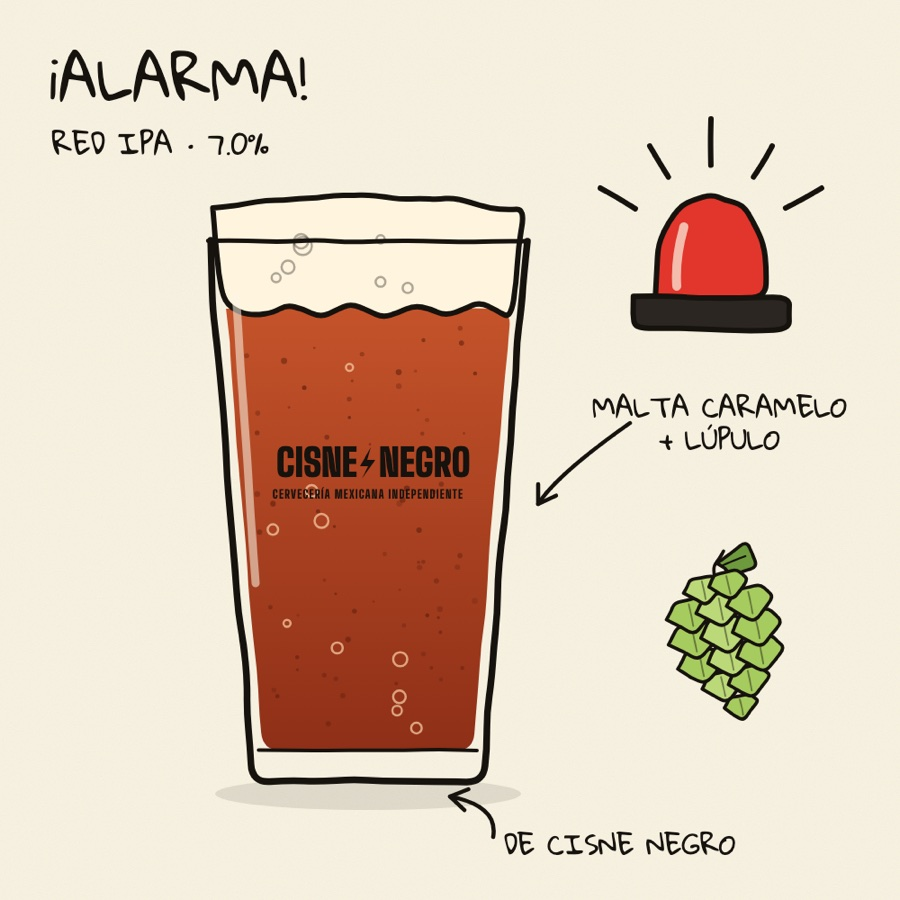
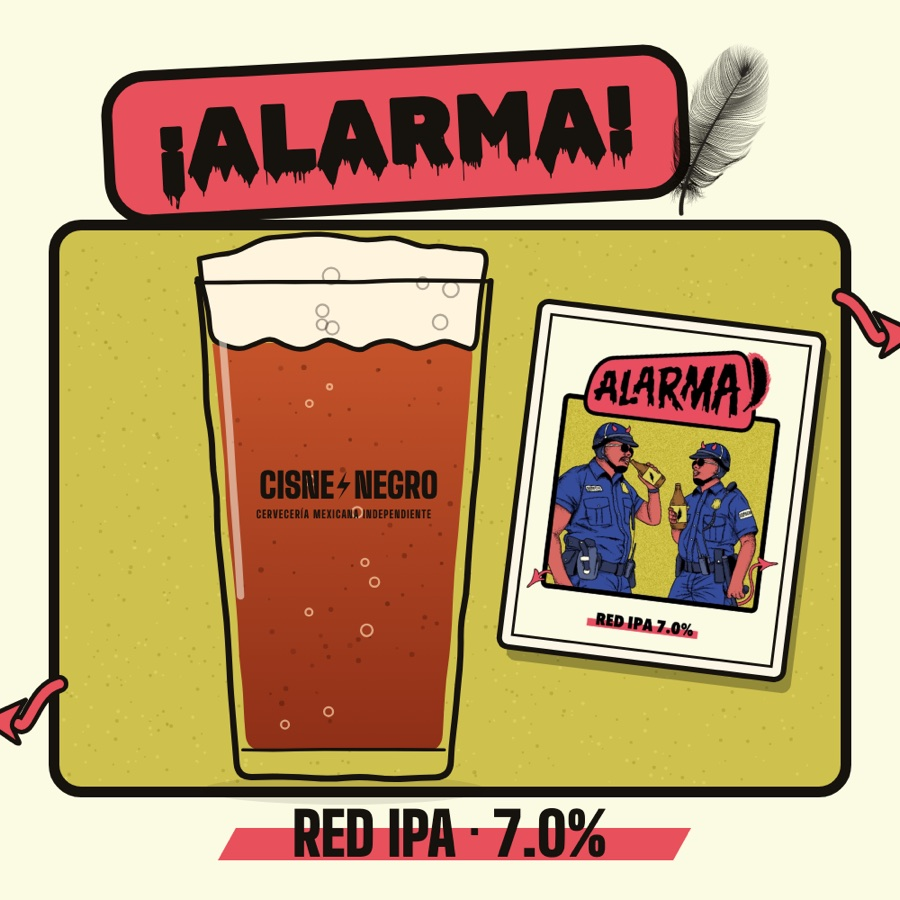
feat(cisne-negro): diseño especializado por etiqueta para ¡Alarma!, ¿A poco sí pa'? y Barrilete Cósmico
Cada cerveza con arte oficial tiene ahora una imagen con el lenguaje de su etiqueta,
con el vaso de Cisne Negro al centro y la etiqueta real como calcomanía:
- ¡Alarma!: panel mostaza moteado, banda rosa con letras escurridas, colas de diablo y pluma
- ¿A poco sí pa'?: letras retro de franjas, rayos de santo y llamas del póster, fondo con resplandor rojo
- Barrilete Cósmico: remolino turquesa, constelación, papalotes y salpicadura de espuma
"Ver etiqueta" pasa a la fila superior de la ficha para no tapar el diseño.
Henry IX con notas neutrales mientras se confirma si es IPA o Munich Helles.

diff --git a/cisne-negro-cerveceria/sitio/experiencia/index.html b/cisne-negro-cerveceria/sitio/experiencia/index.html
@@ -40,25 +40,19 @@
       <div class="door-note depth-4" data-depth="4"><span>Barril y comedor</span><span>Cerveza hecha aquí. Sin pretensiones.</span></div>
       <p class="scene-index" aria-hidden="true">01 / LA CASA</p>
     </section>
-    <!-- Illustrated spatial set: no manufactured photography or product cutouts. -->
-    <section class="scene bar" id="barra" tabindex="-1" aria-labelledby="bar-title">
-      <div class="bar-wall depth-0" data-depth="0" aria-hidden="true"></div>
-      <div class="light-cone depth-1" data-depth="1" aria-hidden="true"></div>
+    <!-- Original beer illustrations, presented as artwork, never simulated product photography. -->
+    <section class="scene bar" id="barra" data-beer="alarma" tabindex="-1" aria-labelledby="bar-title">
       <div class="bar-heading depth-4" data-depth="4">
         <p class="eyebrow">02 / Del otro lado de la puerta</p>
         <h2 id="bar-title">TU LUGAR<br>EN LA <span>BARRA.</span></h2>
         <p>Dos cervezas, dos maneras de empezar la plática.</p>
       </div>
       <figure class="bar-art" aria-labelledby="art-caption">
-        <div class="back-sign depth-2" data-depth="2" aria-hidden="true">CISNE NEGRO<small>BEBE LOCAL</small></div>
-        <div class="tap-pipes depth-2" data-depth="2" aria-hidden="true"><i></i><i></i></div>
-        <div class="counter depth-2" data-depth="2" aria-hidden="true"></div>
-        <div class="glasses depth-3" data-depth="3" data-parallax="-0.025" aria-hidden="true">
-          <div class="glass-wrap" data-glass="0"><div class="glass glass-amber"><div class="foam"></div><span class="glass-mark">CN<small>HECHA AQUÍ</small></span></div><div class="coaster"></div></div>
-          <div class="glass-wrap" data-glass="1"><div class="glass glass-dark"><div class="foam"></div><span class="glass-mark">CN<small>HECHA AQUÍ</small></span></div><div class="coaster"></div></div>
+        <div class="art-frame" id="beer-art">
+          <img data-art="alarma" src="../assets/img/cervezas/alarma.jpg" width="900" height="900" decoding="async" alt="¡Alarma!: ilustración de cerveza ámbar junto a su etiqueta de cómic, en crema, mostaza y coral">
+          <img data-art="agua-puerca" src="../assets/img/cervezas/agua-puerca.jpg" width="900" height="900" decoding="async" alt="Agua Puerca: ilustración de stout oscura con espuma caramelo, chocolate y café dibujados sobre papel crema" hidden>
         </div>
-        <img class="mascot depth-3" data-depth="3" src="../assets/img/marca/cisne-mascota.jpg" width="1080" height="1080" loading="lazy" decoding="async" alt="Mascota del Cisne con su tarro de cerveza, en un sello blanco">
-        <figcaption id="art-caption">Composición ilustrativa · Los vasos no son fotografías del producto.</figcaption>
+        <figcaption id="art-caption">¡Alarma! · Ilustración de la cerveza y su etiqueta.</figcaption>
       </figure>
       <div class="beer-console depth-4" data-depth="4">
         <div id="beer-data" aria-busy="false">

diff --git a/cisne-negro-cerveceria/sitio/assets/js/menu.js b/cisne-negro-cerveceria/sitio/assets/js/menu.js
@@ -118,12 +118,12 @@
       const oficial = b.marida_oficial || [];
       const card = h('article', { class: 'tap', id: 'barril-' + b.id, 'data-perfil': b.perfil, 'aria-labelledby': 'tn-' + b.id },
         b.img && h('figure', { class: 'tap__fig' },
-          h('img', { class: 'tap__img', src: '/assets/img/cervezas/' + b.img, alt: 'Ilustración de ' + b.nombre + ' (' + b.estilo + ') servida en el vaso de Cisne Negro', width: 900, height: 900, loading: i < 2 ? 'eager' : 'lazy', decoding: 'async' }),
-          b.etiqueta && h('button', { type: 'button', class: 'tap__etq', 'data-etiqueta': b.etiqueta, 'data-nombre': b.nombre },
-            h('img', { src: '/assets/img/cervezas/' + b.etiqueta, alt: '', width: 44, height: 44, loading: 'lazy', decoding: 'async' }),
-            h('span', { text: 'Ver etiqueta' }))),
+          h('img', { class: 'tap__img', src: '/assets/img/cervezas/' + b.img, alt: (b.etiqueta ? 'Diseño de ' + b.nombre + ' inspirado en su etiqueta' : 'Ilustración de ' + b.nombre) + ' (' + b.estilo + '), servida en el vaso de Cisne Negro', width: 900, height: 900, loading: i < 2 ? 'eager' : 'lazy', decoding: 'async' })),
         h('div', { class: 'tap__top' },
           h('span', { class: 'tap__num', text: String(i + 1).padStart(2, '0') }),
+          b.etiqueta && h('button', { type: 'button', class: 'tap__etq', 'data-etiqueta': b.etiqueta, 'data-nombre': b.nombre },
+            h('img', { src: '/assets/img/cervezas/' + b.etiqueta, alt: '', width: 44, height: 44, loading: 'lazy', decoding: 'async' }),
+            h('span', { text: 'Ver etiqueta' })),
           b.perfil && h('span', { class: 'chip chip--' + b.perfil }, h('span', { class: 'dot dot--' + b.perfil }), PERFIL_LABEL[b.perfil] || b.perfil)),
         h('h3', { class: 'tap__name', id: 'tn-' + b.id, text: b.nombre }),
         h('p', { class: 'tap__meta', text: [b.estilo, abv(b.abv), b.ibu && b.ibu + ' IBU'].filter(Boolean).join(' · ') }),

diff --git a/cisne-negro-cerveceria/sitio/experiencia/experiencia.js b/cisne-negro-cerveceria/sitio/experiencia/experiencia.js
@@ -15,7 +15,7 @@
     return element;
   };
   const money = new Intl.NumberFormat('es-MX', {style:'currency', currency:'MXN', maximumFractionDigits:0});
-  function selectBeer(beer, index) {
+  function selectBeer(beer) {
     const content = document.createDocumentFragment();
     content.append(node('p', 'beer-meta', `${beer.estilo} · ${beer.abv.toFixed(1)}% ABV`));
     content.append(node('h3', 'beer-name', beer.nombre));
@@ -29,7 +29,9 @@
     });
     content.append(prices);
     detail.replaceChildren(content);
-    document.querySelectorAll('[data-glass]').forEach((glass, i) => glass.classList.toggle('is-selected', i === index));
+    document.querySelector('#barra').dataset.beer = beer.id;
+    document.querySelectorAll('[data-art]').forEach(art => { art.hidden = art.dataset.art !== beer.id; });
+    document.querySelector('#art-caption').textContent = `${beer.nombre} · Ilustración de la cerveza${beer.id === 'alarma' ? ' y su etiqueta' : ''}.`;
   }
   async function load() {
     dataBox.setAttribute('aria-busy', 'true');
@@ -50,14 +52,14 @@
         const input = document.createElement('input');
         input.type = 'radio'; input.name = 'cerveza'; input.value = beer.id;
         input.checked = index === 0;
-        input.setAttribute('aria-controls', 'beer-detail');
-        input.addEventListener('change', () => { if (input.checked) selectBeer(beer, index); });
+        input.setAttribute('aria-controls', 'beer-detail beer-art');
+        input.addEventListener('change', () => { if (input.checked) selectBeer(beer); });
         label.append(input, document.createTextNode(beer.nombre));
         fragment.append(label);
       });
       choices.replaceChildren(fragment);
       fieldset.hidden = false;
-      selectBeer(beers[0], 0);
+      selectBeer(beers[0]);
       status.hidden = true;
     } catch (_) {
       fieldset.hidden = true;

diff --git a/cisne-negro-cerveceria/sitio/assets/js/landing.js b/cisne-negro-cerveceria/sitio/assets/js/landing.js
@@ -47,21 +47,21 @@
       var fig = el('figure', 'tap__fig');
       var img = el('img', 'tap__img');
       img.src = '/assets/img/cervezas/' + beer.img;
-      img.alt = 'Ilustración de ' + beer.nombre + ' (' + beer.estilo + ') servida en el vaso de Cisne Negro';
+      img.alt = (beer.etiqueta ? 'Diseño de ' + beer.nombre + ' inspirado en su etiqueta' : 'Ilustración de ' + beer.nombre) + ' (' + beer.estilo + '), servida en el vaso de Cisne Negro';
       img.width = 900; img.height = 900; img.loading = 'lazy'; img.decoding = 'async';
       fig.appendChild(img);
-      if (beer.etiqueta) {
-        var a = el('a', 'tap__etq', 'Ver etiqueta');
-        a.href = '/assets/img/cervezas/' + beer.etiqueta;
-        a.target = '_blank'; a.rel = 'noopener';
-        a.setAttribute('aria-label', 'Ver el arte oficial de la etiqueta de ' + beer.nombre + ' (se abre en otra pestaña)');
-        fig.appendChild(a);
-      }
       card.appendChild(fig);
     }
 
     var top = el('div', 'tap__top');
     top.appendChild(el('span', 'tap__num', String(i + 1).padStart(2, '0')));
+    if (beer.etiqueta) {
+      var etq = el('a', 'tap__etq', 'Ver etiqueta');
+      etq.href = '/assets/img/cervezas/' + beer.etiqueta;
+      etq.target = '_blank'; etq.rel = 'noopener';
+      etq.setAttribute('aria-label', 'Ver el arte oficial de la etiqueta de ' + beer.nombre + ' (se abre en otra pestaña)');
+      top.appendChild(etq);
+    }
     if (beer.perfil) {
       top.appendChild(el('span', 'chip chip--' + beer.perfil, PERFIL_LABEL[beer.perfil] || beer.perfil));
     }

diff --git a/cisne-negro-cerveceria/sitio/assets/css/menu.css b/cisne-negro-cerveceria/sitio/assets/css/menu.css
@@ -627,13 +627,12 @@ main { max-width: 1080px; margin: 0 auto; padding: 0 var(--pad); }
 .tap__fig { position: relative; margin: -18px -18px 16px; }
 .tap__img { display: block; width: 100%; height: auto; aspect-ratio: 1; object-fit: cover; border-radius: var(--radius) var(--radius) 0 0; background: #FBF6E6; }
 .tap__etq {
-  position: absolute; left: 12px; bottom: 12px; display: inline-flex; align-items: center; gap: 8px;
-  min-height: 44px; padding: 4px 14px 4px 4px; border-radius: 999px; border: 2px solid var(--tinta);
-  background: var(--hueso); color: var(--tinta); font-weight: 800; font-size: .875rem; cursor: pointer;
-  box-shadow: 0 6px 18px rgba(0,0,0,.25);
+  display: inline-flex; align-items: center; gap: 8px; margin: 0 auto 0 10px;
+  min-height: 44px; padding: 4px 14px 4px 4px; border-radius: 999px; border: 1.5px solid rgba(242,201,125,.5);
+  background: transparent; color: var(--neon); font-weight: 800; font-size: .8125rem; cursor: pointer;
 }
+.tap__etq:hover { background: rgba(242,201,125,.12); }
 .tap__etq img { width: 36px; height: 36px; border-radius: 50%; object-fit: cover; border: 1.5px solid var(--tinta); }
-.tap__etq:hover { background: var(--neon); }
 .mini__casa {
   display: inline-block; margin-left: 6px; padding: 1px 8px; border-radius: 999px; vertical-align: 2px;
   background: var(--neon); color: var(--tinta); font: 800 .6875rem/1.6 var(--f-mono); text-transform: uppercase; letter-spacing: .04em;

diff --git a/cisne-negro-cerveceria/sitio/assets/css/landing.css b/cisne-negro-cerveceria/sitio/assets/css/landing.css
@@ -544,11 +544,11 @@ h3 { font-family: var(--f-display); font-weight: 800; text-transform: uppercase;
 .tap__fig { position: relative; margin: -22px -22px 18px; }
 .tap__img { display: block; width: 100%; height: auto; aspect-ratio: 1; object-fit: cover; border-radius: var(--radius) var(--radius) 0 0; background: #FBF6E6; }
 .tap__etq {
-  position: absolute; left: 12px; bottom: 12px; display: inline-flex; align-items: center; min-height: 44px; padding: 8px 16px;
-  border-radius: 999px; border: 2px solid var(--tinta); background: var(--hueso); color: var(--tinta);
-  font-weight: 800; font-size: .875rem; text-decoration: none; box-shadow: 0 6px 18px rgba(0,0,0,.25);
+  display: inline-flex; align-items: center; min-height: 44px; padding: 8px 14px; margin: 0 auto 0 10px;
+  border-radius: 999px; border: 1.5px solid rgba(242,201,125,.5); color: var(--neon);
+  font-weight: 800; font-size: .8125rem; text-decoration: none;
 }
-.tap__etq:hover { background: var(--neon); }
+.tap__etq:hover { background: rgba(242,201,125,.12); }
 .pair { position: relative; }
 .pair__vaso {
   position: absolute; top: 12px; right: 12px; width: 84px !important; height: 84px !important; aspect-ratio: 1;
